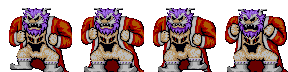
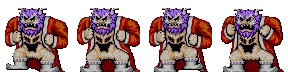
Boss i aturar-se damunt lapides

diff --git a/GAME/js/playerPrefab.js b/GAME/js/playerPrefab.js
@@ -95,10 +95,10 @@ platformer.playerPrefab.prototype.update = function () {
     this.game.physics.arcade.collide(this, this.level.platform);
 
 	  this.game.physics.arcade.collide(this, this.level.platform_collision);
+    this.touchGrave=false;
     this.game.physics.arcade.collide(this, this.level.graves, this.touch, null, this);
     this.game.physics.arcade.collide(this, this.level.movingPlatform, this.touch, null, this);	//utilizo lo mismo para la movingPlatform
     this.game.physics.arcade.collide (this, this.level.water, this.PlayerDie, null, this);
-
     this.lastJumpState = this.jumping_start;
 
   //so de jump
@@ -107,7 +107,7 @@ platformer.playerPrefab.prototype.update = function () {
     if(this.jump_key.isUp&&this.body.blocked.down||this.jump_key.isUp&&this.touchGrave)  this.jumping_start=false;
     if(this.jumping_start==false&&this.jumping_start!=this.lastJumpState) this.playerJumpEnd.play();
 
-    this.touchGrave=false;
+    
 //collide with ladders
   //xoca amb ladders
   if(this.game.physics.arcade.overlap(this,this.level.ladders)){
@@ -178,10 +178,11 @@ else this.body.allowGravity=true;
 	if(this.invincibleKey.isDown && this.invincibleKey.downDuration(10)){
         this.invincible = !this.invincible;
     }
-
+    
     //si no estem saltant posem a 0 la velocitat
-    if (this.body.blocked.down || this.touchGrave==true) {
-        this.body.velocity.x = 0;
+    
+    if (this.touchGrave || this.body.blocked.down) {
+        this.body.velocity.x = 0;        
     }
 
     //POSAR TAMANY COLISIO A NORMAL SI NO HO ESTA
@@ -250,6 +251,7 @@ else this.body.allowGravity=true;
                  //STAND
             else if(this.body.blocked.down||this.touchGrave==true){
                 this.ajupir_attack=false;
+                this.body.velocity.x = 0;
                 this.animations.play('stand');
             }
 

diff --git a/GAME/js/tutorial.js b/GAME/js/tutorial.js
@@ -95,6 +95,7 @@ platformer.tutorial = {
 
         //ENEMY BULLET SPRITES
         this.load.spritesheet('ull', 'img/ull.png', 18, 18);
+        this.load.spritesheet('bossBullet', 'img/bossBullet.png', 19, 13);
 
         //ENEMY SPRITES
         this.load.spritesheet('planta', 'img/Planta.png', 36, 64);
@@ -107,6 +108,9 @@ platformer.tutorial = {
 
 		//CICLOP
         this.load.spritesheet('ciclop', 'img/ciclop.png', 96, 96);
+        
+        //CICLOP
+        this.load.spritesheet('finalBoss', 'img/finalBoss.png', 72, 72);
 
         //LOOT
         this.load.spritesheet('coin', 'img/item_coin.png', 16, 16);
@@ -219,15 +223,17 @@ platformer.tutorial = {
         this.createBosses();
 
         //SPAWNS DE ZOMBIES
-        this.spawns.add(new platformer.spawnZombiePrefab(this.game,475,350,this));
+        /*this.spawns.add(new platformer.spawnZombiePrefab(this.game,475,350,this));
         this.spawns.add(new platformer.spawnZombiePrefab(this.game,800,350,this));
         this.spawns.add(new platformer.spawnZombiePrefab(this.game,1200,350,this));
         this.spawns.add(new platformer.spawnZombiePrefab(this.game,1450,350,this));
         this.spawns.add(new platformer.spawnZombiePrefab(this.game,1900,350,this));
-        this.spawns.add(new platformer.spawnZombiePrefab(this.game,2250,350,this));
-
-
-		//SPAWNS DE GHOSTS
+        this.spawns.add(new platformer.spawnZombiePrefab(this.game,2250,350,this));*/
+        
+        //new platformer.finalBossPrefab(this.game, 400, 320);
+        
+        
+        //SPAWNS DE GHOSTS
 		this.spawnGhost1 = new platformer.ghostSpawnPrefab(this.game,4769,350,this);
 		this.spawnGhost2 = new platformer.ghostSpawnPrefab(this.game,5406,350,this);
 

diff --git a/GAME/js/finalBossPrefab.js b/GAME/js/finalBossPrefab.js
@@ -1,14 +1,32 @@
 var platformer = platformer || {};
 
-platformer.finalBossPrefab =function(level,x,y){
+platformer.finalBossPrefab =function(game,x,y){
     
-    Phaser.Sprite.call(this,game,x,y,'ciclop',0);
+    Phaser.Sprite.call(this,game,x,y,'finalBoss',0);
     game.add.existing(this);
 	this.anchor.setTo(.5);
-	this.scale.x= -1;
+	this.scale.setTo(2);
     
-    this.level = level;
+    this.game = game;
+    
+    //animacions
+    this.animations.add('walk', [0,1,2,1],4,true);
+    this.animations.play('walk');
+    
+    //físiques
+    game.physics.arcade.enable(this);
+    this.body.allowGravity			= false;
+    this.body.immovable				= true;
+    
+    this.body.velocity.x = -gameOptions.finalBossSpeed;
+    
+    this.game.time.events.loop(Phaser.Timer.SECOND*2,this.shoot,this);
+    
 }
 platformer.finalBossPrefab.prototype=Object.create(Phaser.Sprite.prototype);
 platformer.finalBossPrefab.prototype.constructor=platformer.finalBossPrefab;
 platformer.finalBossPrefab.prototype.update = function(){}
+platformer.finalBossPrefab.prototype.shoot = function (){
+    var bala = new platformer.enemyBulletPrefab(this.game,this.x,this.y+20,1,-120,75);
+    
+}

diff --git a/GAME/js/enemyBulletPrefab.js b/GAME/js/enemyBulletPrefab.js
@@ -5,13 +5,12 @@ platformer.enemyBulletPrefab=function(game,x,y,_enemyBullet_type,velX,velY){
     this.enemyBullet_type=_enemyBullet_type;
 
     switch(this.enemyBullet_type){
-        case 0: Phaser.Sprite.call(this,game,x,y,'ull');
+        case 0: Phaser.Sprite.call(this,game,x,y,'ull');this.animations.add('ullAnim', [0,1,2,3],10,true);
             break;
-        //case 1: Phaser.Sprite.call(this,game,x,y,'foc');
-            //break;
+        case 1: Phaser.Sprite.call(this,game,x,y,'bossBullet');this.scale.setTo(2);
+            break;
     }
-    //potser s'haurà d'afegir en un group............
-    this.animations.add('ullAnim', [0,1,2,3],10,true);
+        
 
     game.add.existing(this);
     this.anchor.setTo(.5);
@@ -44,6 +43,6 @@ platformer.enemyBulletPrefab.prototype.update = function () {
       hero.killPlayer(hero, bullet);      
       bullet.kill();      
   });
-    
+
     
 }

diff --git a/GAME/js/main.js b/GAME/js/main.js
@@ -28,7 +28,8 @@ var gameOptions = {
     currentCheckpoint:0,
 	platformSpeed:120,
 	ciclopWalkSpeed:110,
-	ciclopPoints:2000
+	ciclopPoints:2000,
+    finalBossSpeed:15
 };
 
 platformer.game = new Phaser.Game(gameOptions.gameWidth,gameOptions.gameHeight,Phaser.AUTO,null,this,false,false);
